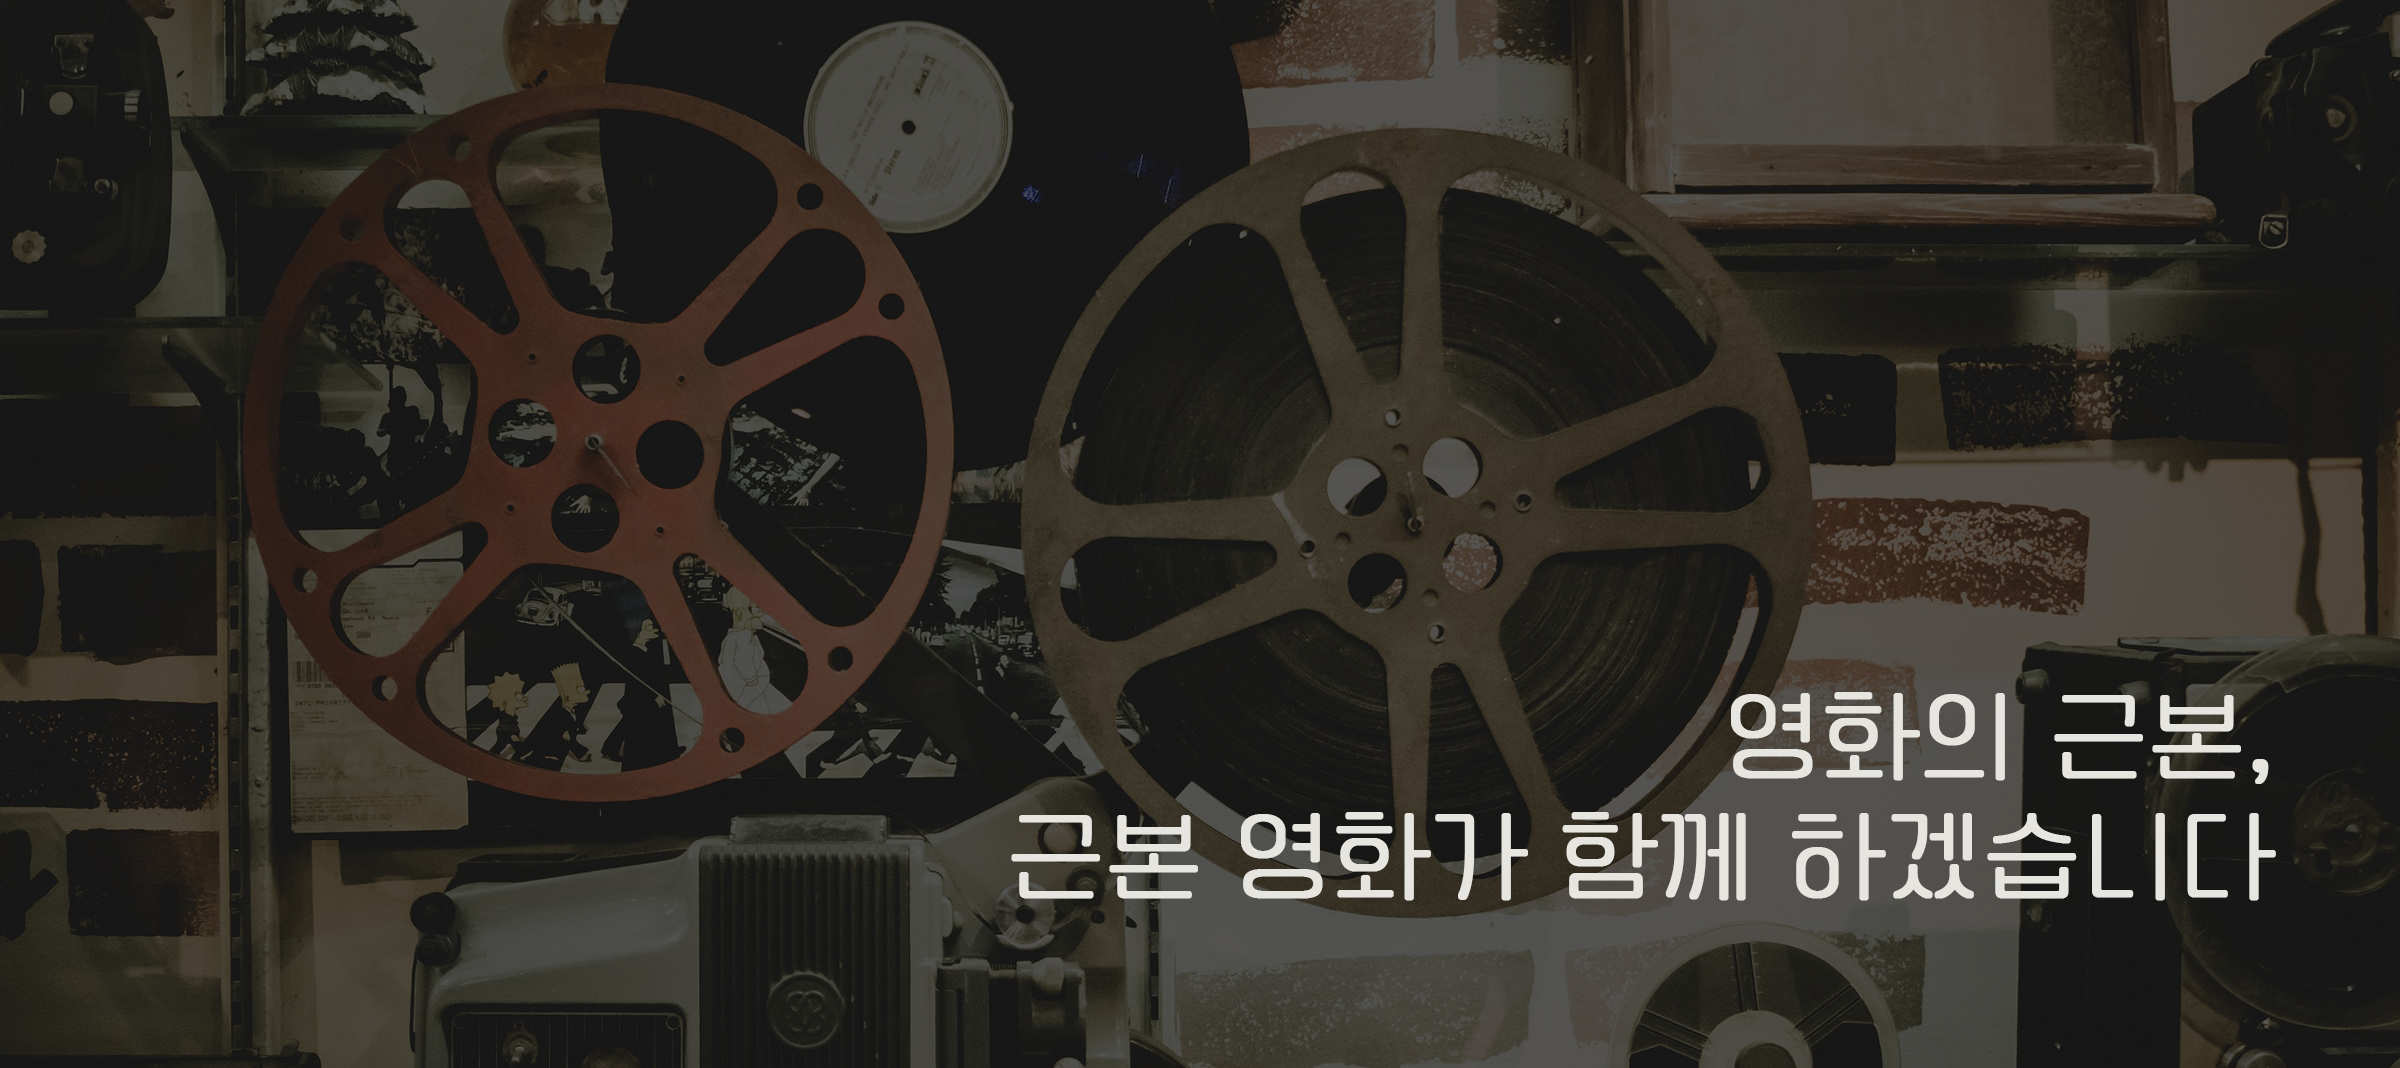
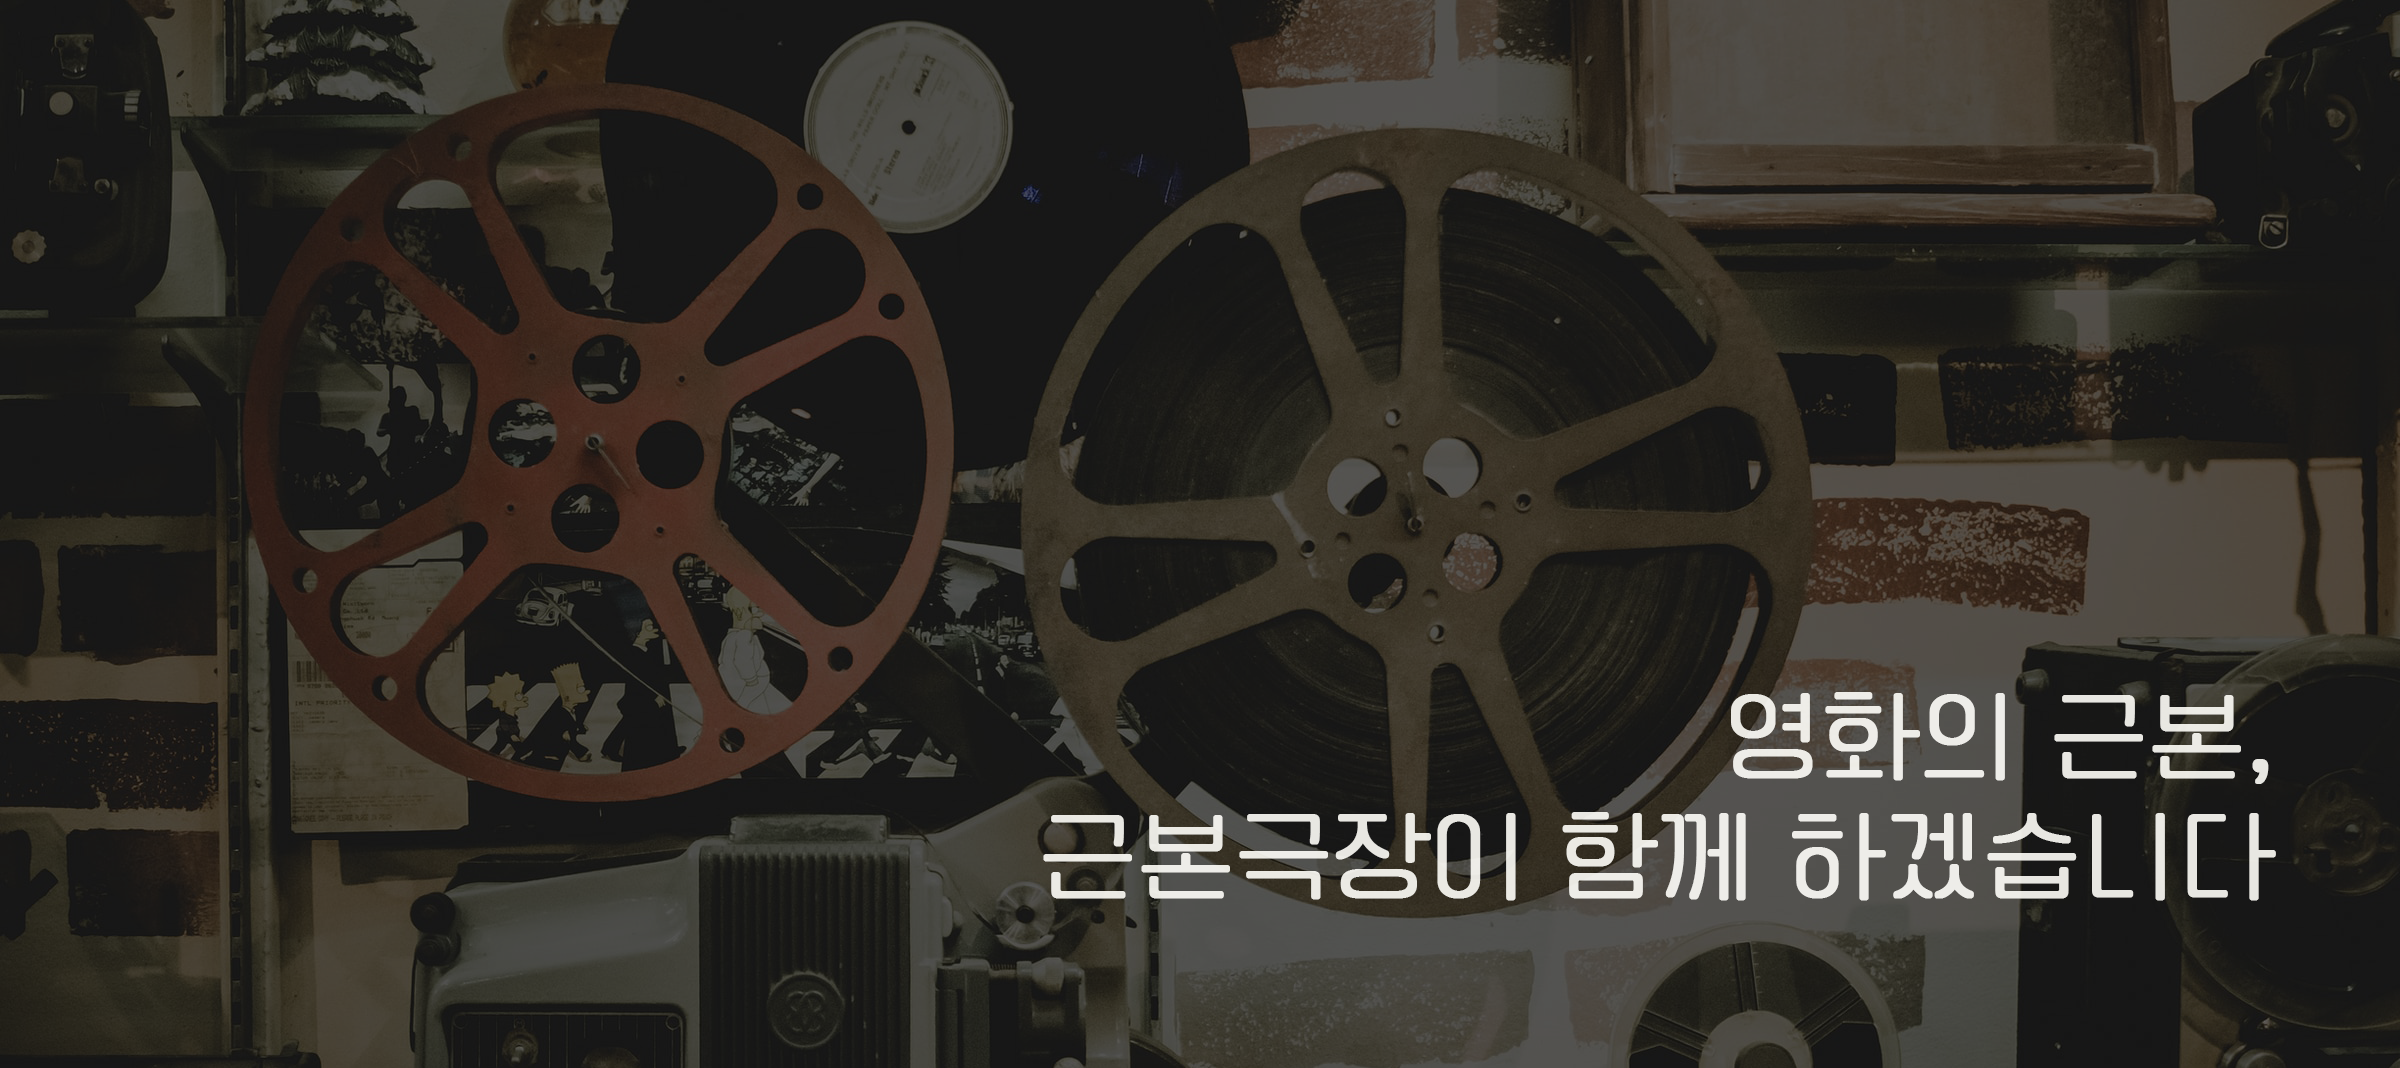
front vote edit

Changed region(s): [[0.4062, 0.7416, 0.6562, 0.8652]]

diff --git a/final-pjt-front/vue-front/src/views/SignupView.vue b/final-pjt-front/vue-front/src/views/SignupView.vue
@@ -1,24 +1,24 @@
 <template>
-  <div>
-    <h1>Signup</h1>
+  <div class="container">
+    <h1 class="mt-5">회원가입</h1>
 
     <account-error-list v-if="authError"></account-error-list>
 
     <form @submit.prevent="signup(credentials)">
       <div>
-        <label for="username">Username: </label>
+        <label for="username">아이디: </label>
         <input  v-model="credentials.username" type="text" id="username" required/>
       </div>
       <div>
-        <label for="password1">Password: </label>
+        <label for="password1">비밀번호: </label>
         <input v-model="credentials.password1" type="password" id="password1" required />
       </div>
       <div>
-        <label for="password2">Password Confirmation:</label>
+        <label for="password2">비밀번호 확인:</label>
         <input v-model="credentials.password2" type="password" id="password2" required />
       </div>
       <div>
-        <button>Signup</button>
+        <button>회원가입</button>
       </div>
     </form>
   </div>

diff --git a/final-pjt-front/vue-front/src/components/VoteMainForm.vue b/final-pjt-front/vue-front/src/components/VoteMainForm.vue
@@ -27,7 +27,7 @@ export default {
     ...mapGetters(['movie','currentUser']),
   },
   methods: {
-    ...mapActions(['createVote']),
+    ...mapActions(['createVote', 'updateVote']),
     getMovie() {
       if ( _.isEmpty(this.movie)) {
         this.moviePk = this.$attrs.movie.id
@@ -36,7 +36,11 @@ export default {
       }
     },
     onSubmit() {
-      this.createVote({ moviePk: this.moviePk, rate: this.rate, content: this.content, })
+      if ( this.currentUser.pk in this.$attrs.movie.vote_user) {
+        // this.updateVote({ moviePk: this.moviePk, votePk: , rate: this.rate, content: this.content,})
+      } else {
+        this.createVote({ moviePk: this.moviePk, rate: this.rate, content: this.content, })
+      }
     },
     startRate() {
       this.starValue = this.rate*10 + '%'
@@ -47,7 +51,7 @@ export default {
       } else{
         return !this.isVotes
       }
-    }
+    },
   },
   created() {
     this.getMovie()

diff --git a/final-pjt-front/vue-front/src/views/LoginView.vue b/final-pjt-front/vue-front/src/views/LoginView.vue
@@ -1,6 +1,6 @@
 <template>
   <div class="container">
-    <h1>Login</h1>
+    <h1 class="mt-5">로그인</h1>
     <!-- authError값이 있을 경우만 보여준다 -->
     <div class="alert alert-danger" v-if="authError" role="alert">
       <account-error-list nt-error-list ></account-error-list>
@@ -8,12 +8,12 @@
 
     <form @submit.prevent="login(credentials)">
       <div>
-        <label for="username">username: </label>
+        <label for="username">아이디: </label>
         <input v-model="credentials.username" type="text" id="username" required />
       </div>
 
       <div>
-        <label for="password">password: </label>
+        <label for="password">비밀번호: </label>
         <input v-model="credentials.password" type="password" id="password" required />
       </div>
       <button>Login</button>

diff --git a/final-pjt-front/vue-front/src/views/ProfileView.vue b/final-pjt-front/vue-front/src/views/ProfileView.vue
@@ -3,7 +3,7 @@
     <div class="my-5">
       <h1 class="mb-5">{{ profile.profile.username }}님, 반가워요!</h1>
       <!-- <p class="text-secondary">평가영화 {{ profile.votesCount }} | 작성글 {{ profile.articles }}</p> -->
-      <p class="mt-4 mb-1">근본력 : {{profile.overall_power}}%</p>
+      <p class="mt-4 mb-1">근본력 : {{ profile.overall_power}}%</p>
       <div class="progress">
         <div class="progress-bar bg-danger" role="progressbar" v-bind:style="{width : profile.overall_power+'%'}" aria-valuenow="20" aria-valuemin="0" aria-valuemax="100"></div>
       </div>

diff --git a/final-pjt-front/vue-front/src/components/NavBar.vue b/final-pjt-front/vue-front/src/components/NavBar.vue
@@ -3,7 +3,7 @@
     <div class="d-flex align-items-center">
       <div class="flex-grow-1">
         <router-link :to="{ name: 'movies' }">
-          <img src="@/assets/근본영화 (2).png" alt="logo" style="width:80px">
+          <img src="@/assets/근본극장.png" alt="logo" style="width:80px">
         </router-link>
       </div>
 

diff --git a/final-pjt-front/vue-front/src/views/MovieListView.vue b/final-pjt-front/vue-front/src/views/MovieListView.vue
@@ -3,7 +3,7 @@
   <!--main -->
   <div id="main" class="my-5" style="text-align:center;">
     <div class="">
-      <img class="img-fluid text-center" src="@/assets/mainimg.png" alt="mainImg">
+      <img class="img-fluid text-center" src="@/assets/mainImg.png" alt="mainImg">
     </div>
   </div>
 
